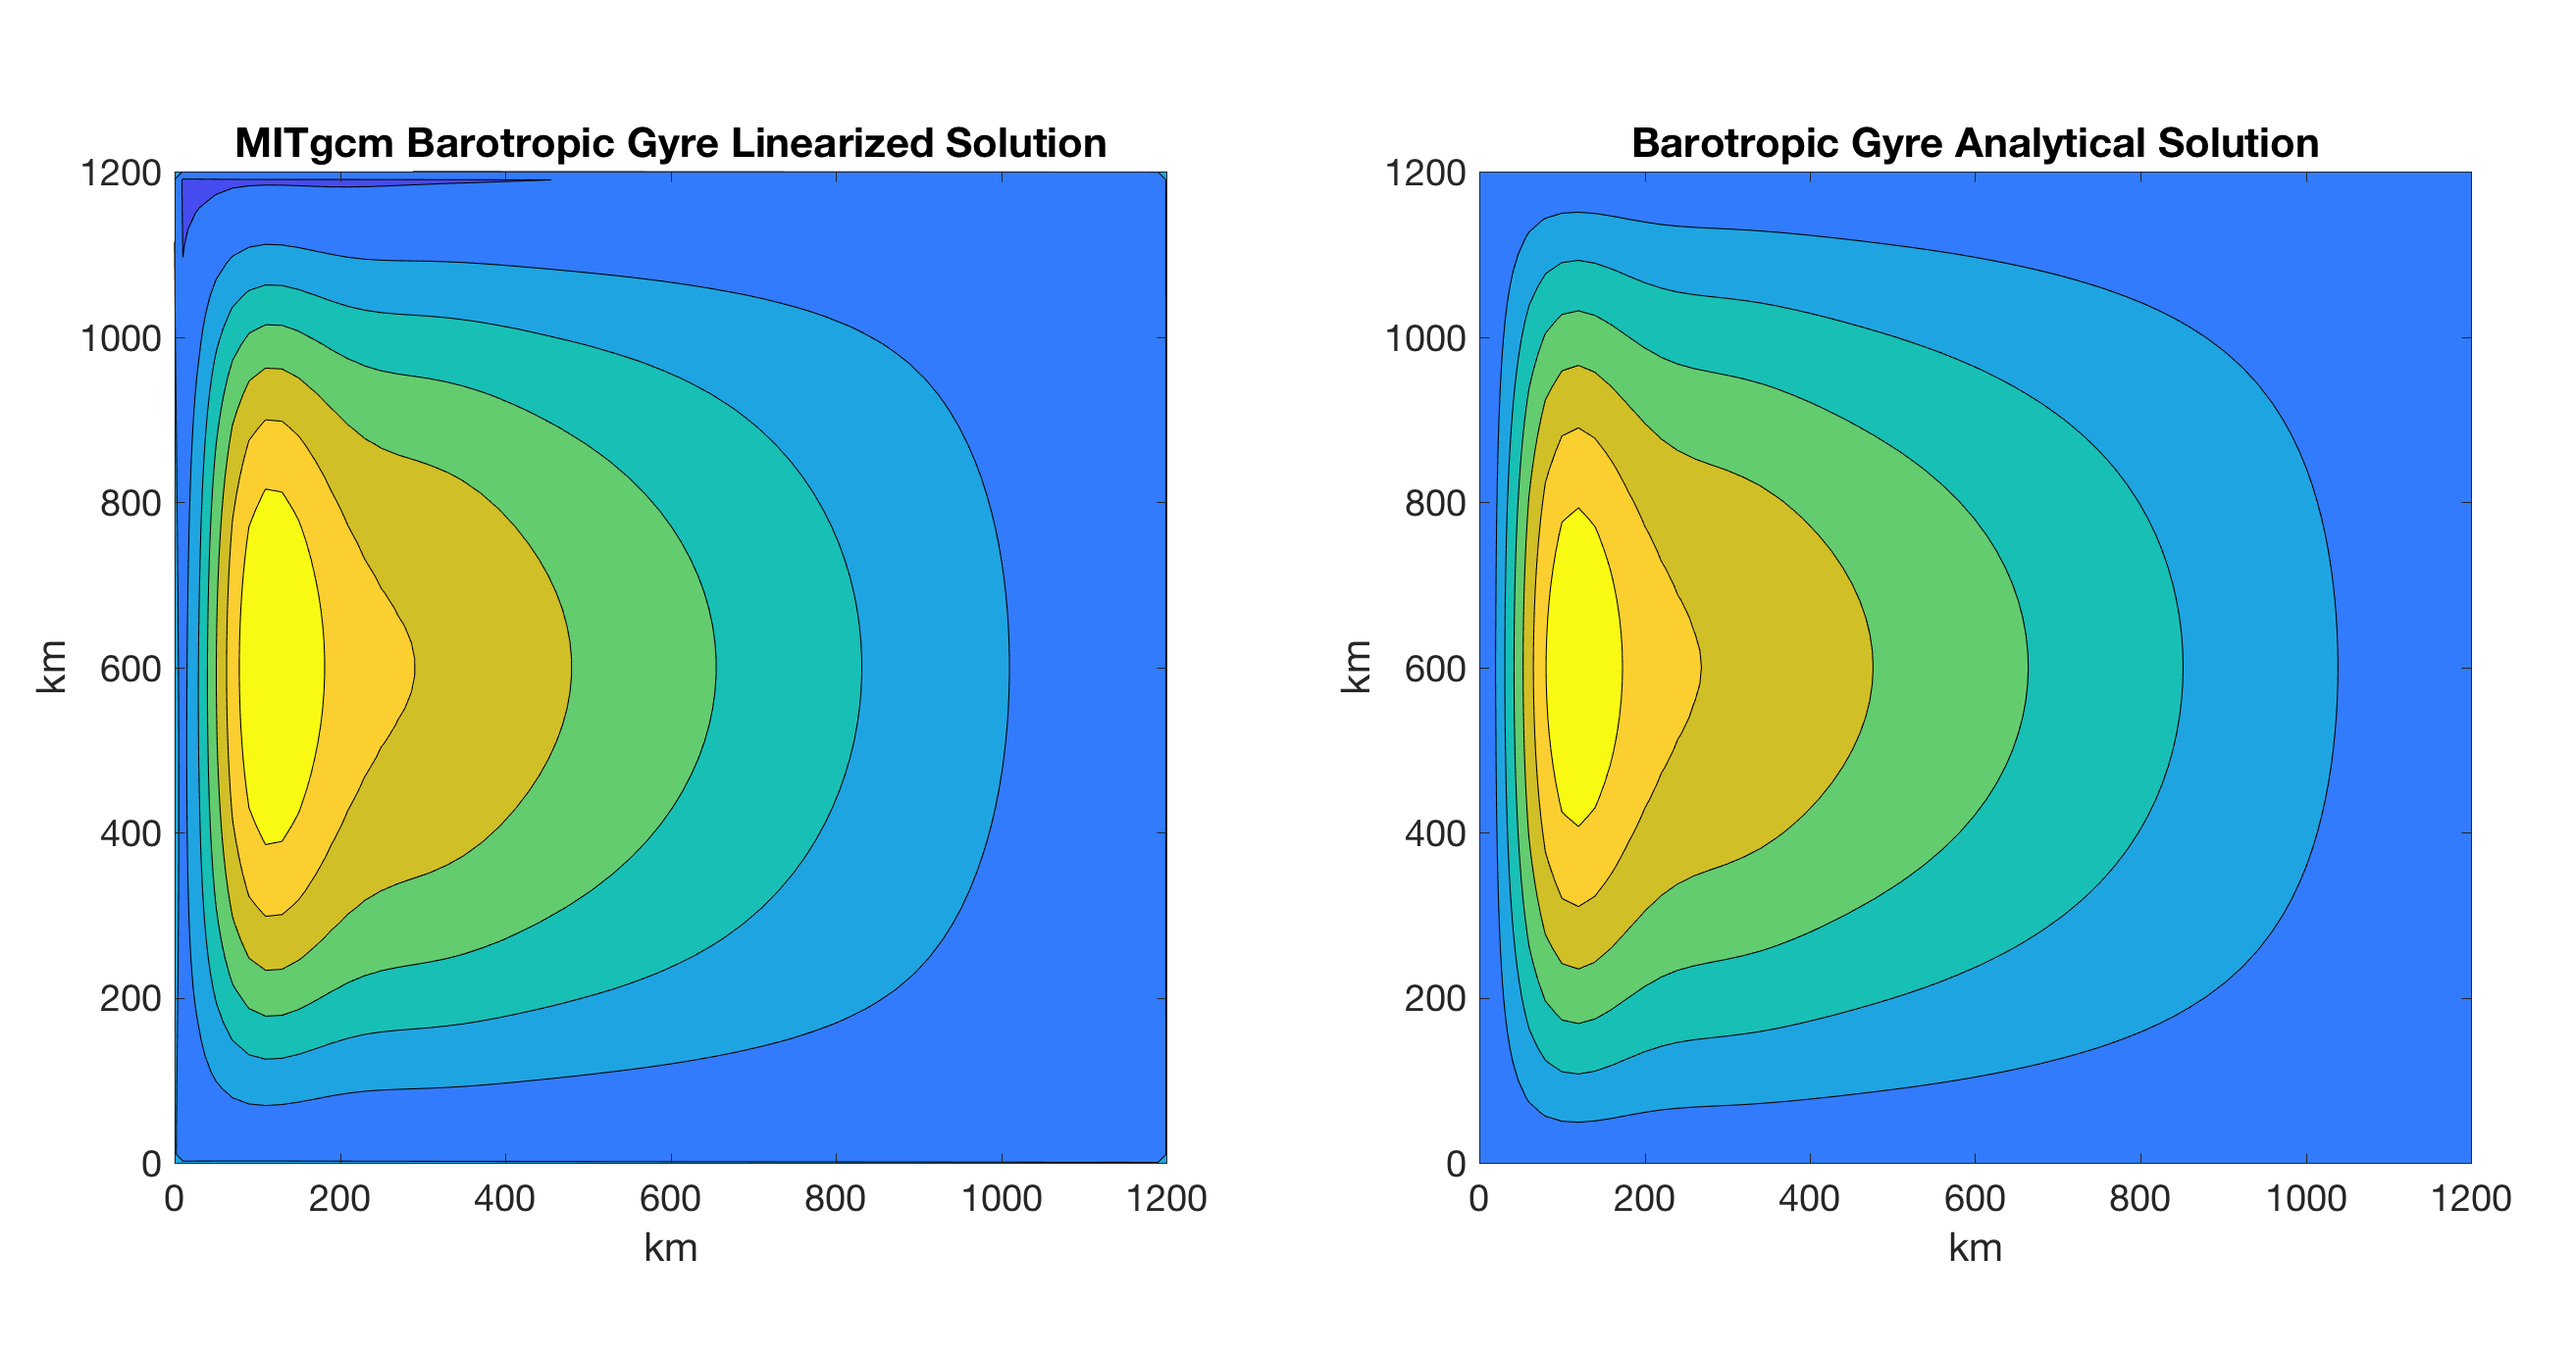
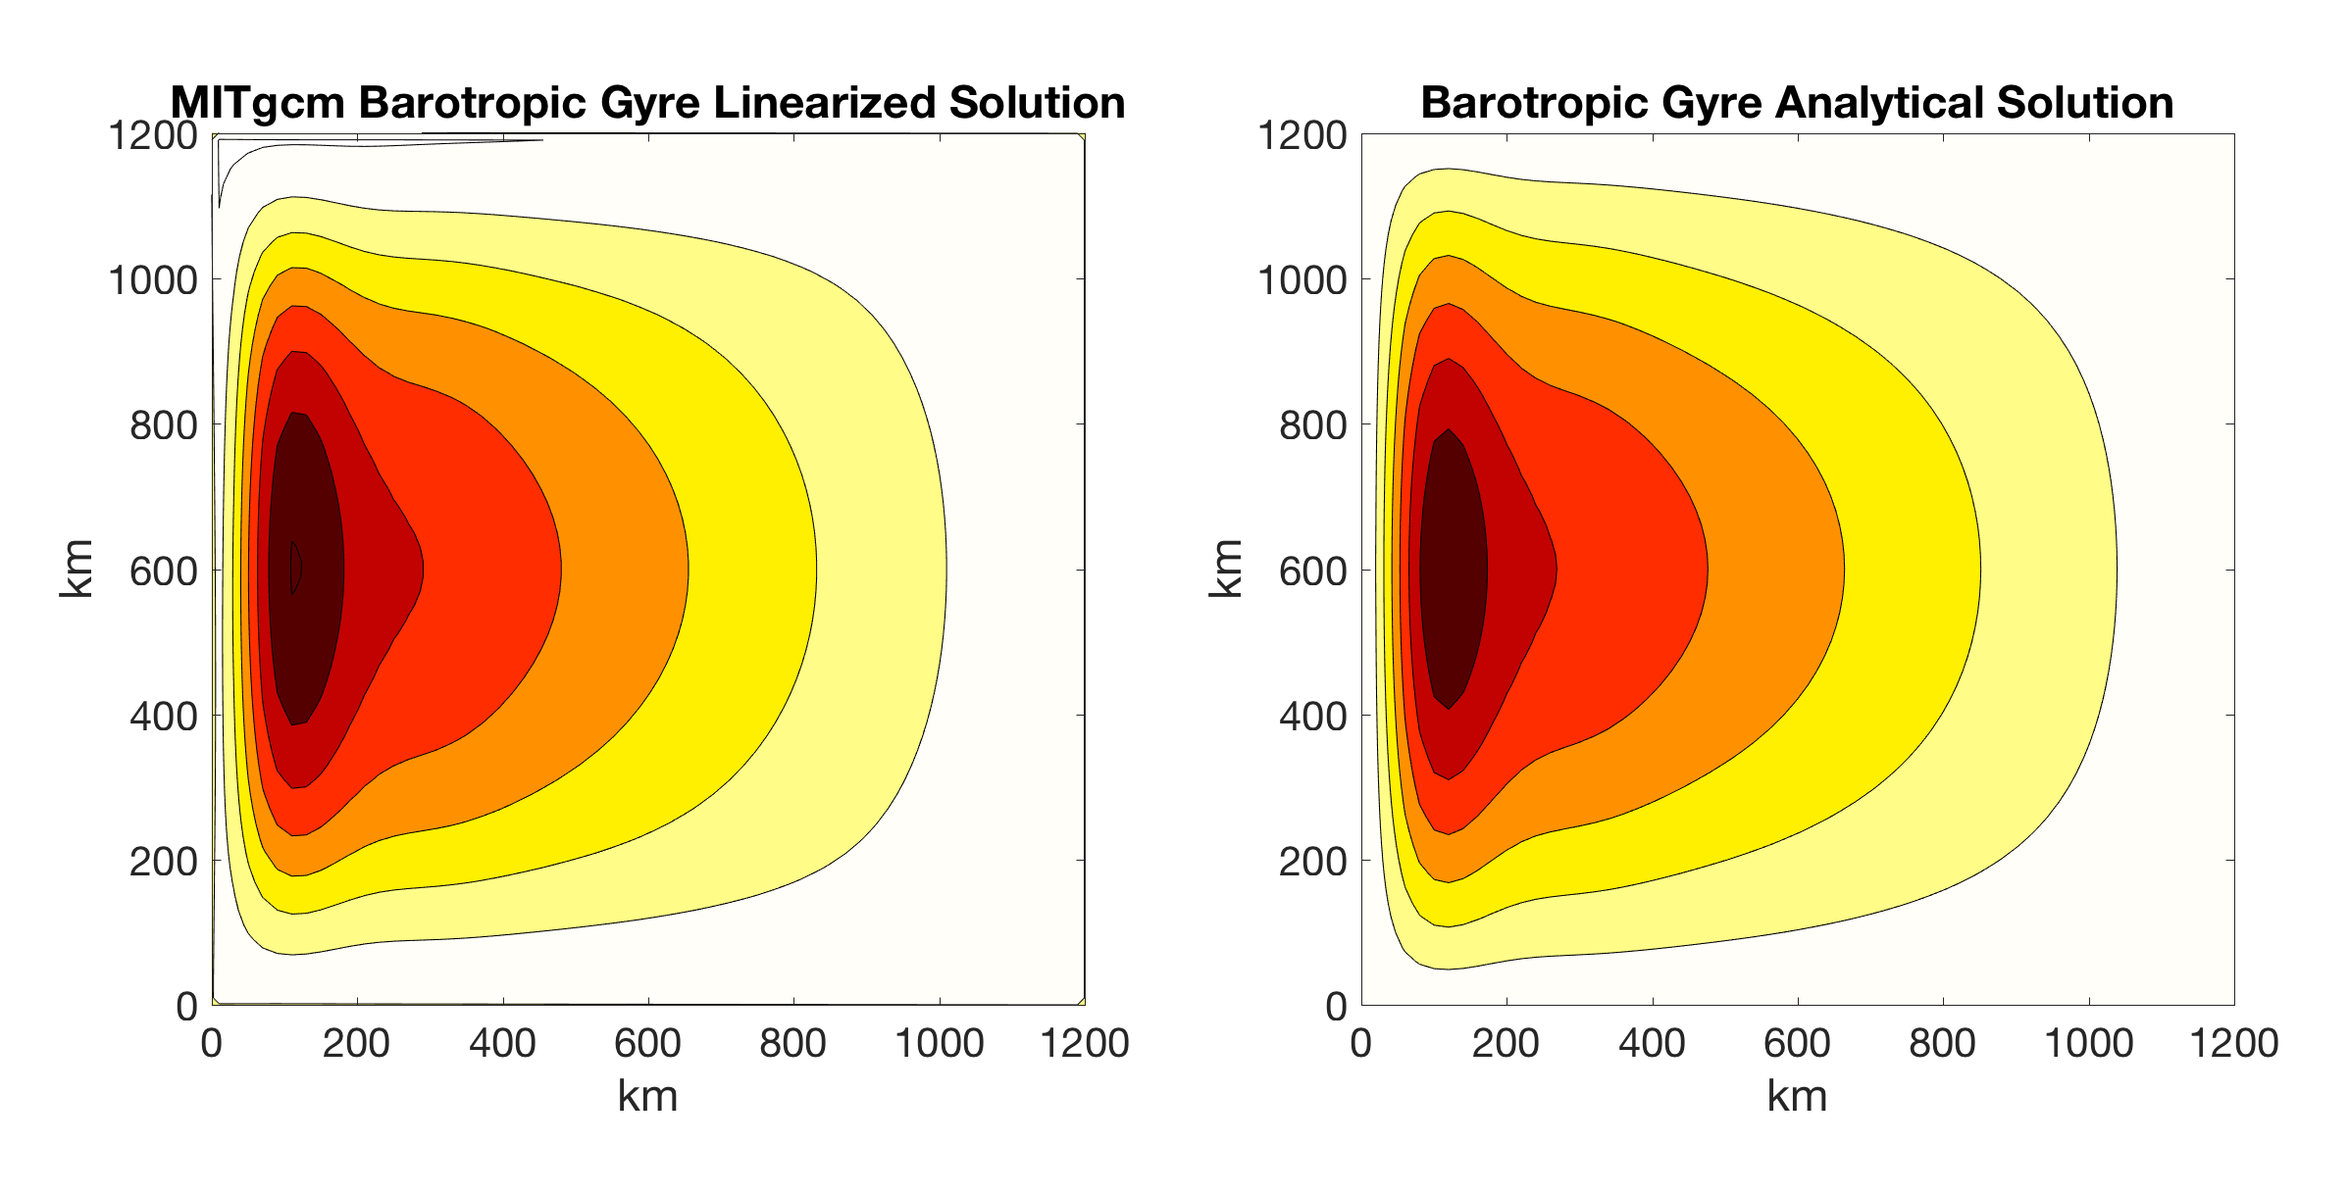
changes from @edoddridge and Maxime
- change colormap/CLim in plots
- change pickup frequency to be consistent with 360-day yrs
- other minor text edits and enhancements

diff --git a/doc/examples/examples.rst b/doc/examples/examples.rst
@@ -25,6 +25,9 @@ Barotropic Gyre MITgcm Example
 This example experiment demonstrates using the MITgcm to simulate a barotropic, wind-forced, ocean gyre circulation.
 The experiment is a numerical rendition of the gyre circulation problem described analytically
 by Stommel in 1948  :cite:`stommel:48` and Munk in 1950 :cite:`munk:50`, and numerically in Bryan (1963) :cite:`bryan:63`.
+Note this tutorial assumes a basic familiarity with ocean dynamics and geophysical fluid dynamics; readers new to the field
+may which to consult one of the standard texts on these subjects,
+such as Vallis (2017) :cite:`vallis:17` or Cushman-Roisin and Beckers (2011) :cite:`cushmanroisin:11`.
 
 In this experiment the model is configured to represent a rectangular enclosed box of fluid, :math:`1200 \times 1200` km
 in lateral extent. The fluid depth :math:`D =`  5 km. The fluid is forced by a zonal wind stress, :math:`\tau_x`, that varies
@@ -89,7 +92,8 @@ equations for this configuration as follows:
 
 where :math:`u` and :math:`v` are the :math:`x` and :math:`y` components of the
 flow vector :math:`\vec{u}`, :math:`\eta` is the free surface height,
-and :math:`A_{h}` the horizontal Laplacian viscosity. 
+:math:`A_{h}` the horizontal Laplacian viscosity, :math:`\rho_{c}` is the fluid density,
+and :math:`g` the acceleration due to gravity.
 
 
 Discrete Numerical Configuration
@@ -111,12 +115,13 @@ maximum horizontal flow speed is:
 
     S_{a} = 2 \left( \frac{ |u| \Delta t}{ \Delta x} \right) < 0.5 \text{ for stability}
 
-The 2 factor on the left is because we have a 2D problem (in contrast with the more familiar 1D canonical stability analysis); the right hand side is 0.5 
+The 2 factor on the left is because we have a 2D problem
+(in contrast with the more familiar 1D canonical stability analysis); the right hand side is 0.5 
 due to our default use of Adams-Bashforth2 (see :numref:`adams-bashforth`) rather than the more familiar
 value of 1 that one would obtain using a forward Euler scheme.
 In our configuration, let’s assume our solution will achieve a maximum :math:`| u | = 1` ms\ :sup:`--1`
 (in reality, current speeds in our solution will be much smaller). To keep :math:`\Delta t` safely
-below the stability criteria, let’s choose :math:`\Delta t` = 1200 s (= 20 minutes), which 
+below the stability threshold, let’s choose :math:`\Delta t` = 1200 s (= 20 minutes), which 
 results in :math:`S_{a}` = 0.12.
 
 The numerical stability for inertial oscillations using Adams-Bashforth2 (Adcroft 1995 :cite:`adcroft:95`)
@@ -127,9 +132,9 @@ The numerical stability for inertial oscillations using Adams-Bashforth2 (Adcrof
     S_{i} = f {\Delta t} < 0.5 \text{ for stability}
 
 
-evaluates to 0.12 for our choice of :math:`\delta t`, which is below the stability criteria.
+evaluates to 0.12 for our choice of :math:`\delta t`, which is below the stability threshold.
 
-There are two general rules in choosing a lateral Laplacian eddy viscosity :math:`A_{h}`:
+There are two general rules in choosing a horizontal Laplacian eddy viscosity :math:`A_{h}`:
 
   - the resulting Munk layer width should be at least as large (preferably, larger) than the lateral grid spacing;
   - the viscosity should be sufficiently small that the model is stable for horizontal friction, given the time step. 
@@ -157,7 +162,7 @@ parameter for the horizontal Laplacian friction (Adcroft 1995 :cite:`adcroft:95`
     S_{l} = 2 \left( 4 \frac{A_{h} \Delta t}{{\Delta x}^2} \right)  < 0.6 \text{ for stability}
 
 
-evaluates to 0.0096, which is well below the stability criteria. As in :eq:`eq_baro_cfl_stability` the above criteria
+evaluates to 0.0096, which is well below the stability threshold. As in :eq:`eq_baro_cfl_stability` the above criteria
 is for a 2D problem using Adams-Bashforth2 time stepping, with the 0.6 value on the right replacing the more familiar 1
 that is obtained using a forward Euler scheme.
 
@@ -243,8 +248,10 @@ See other tutorials for more  complex model domain decomposition.
        :end-at: nSy =
        :lineno-match:
 
-- These lines set parameters :varlink:`nPx` and :varlink:`nPy`, the number of processes to use in the :math:`x` and :math:`y` directions, respectively.
-  Each process would solve the model equations for a separate MITgcm tile (or several, depending on your :varlink:`nSx` and :varlink:`nSy` setting).
+- These lines set parameters :varlink:`nPx` and :varlink:`nPy`, the number of processes
+  to use in the :math:`x` and :math:`y` directions, respectively.
+  Each process would solve the model equations for a separate MITgcm tile (or several,
+  depending on your :varlink:`nSx` and :varlink:`nSy` setting).
   Given the relatively small domain size and minimal computational resources
   required to run this example, we have configured the model to run on a 
   single processor, thus both parameters are set to one. 
@@ -331,10 +338,10 @@ PARM01 - Continuous equation parameters
        :end-at: implicitFreeSurface
        :lineno-match:
 
-- This line sets parameter :varlink:`momAdvection` to suppress the momentum of advection
+- This line sets parameter :varlink:`momAdvection` to suppress the (non-linear) momentum of advection
   terms in the momentum equations. However, note the ``#`` in column 1: this
   “comments out” the line, so using the above :filelink:`data <verification/tutorial_barotropic_gyre/input/data>`
-  file verbatum will in fact include the momentum advection terms (i.e., MITgcm default for this parameter is TRUE).
+  file verbatim will in fact include the momentum advection terms (i.e., MITgcm default for this parameter is TRUE).
   We’ll explore the linearized solution (i.e., by removing the leading ``#``) in :numref:`barotropic_gyre_solution`.
   Note the ability to comment out a line in a namelist file is not part of standard Fortran,
   but this feature is implemented for all MITgcm namelist files.
@@ -347,9 +354,11 @@ PARM01 - Continuous equation parameters
 - These lines set parameters :varlink:`tempStepping` and :varlink:`saltStepping` to
   suppress MITgcm’s forward time integration of temperature and salt in the tracer equations,
   as these prognostic variables are not relevant for the model solution in this configuration.
-  The advantage of doing so is to
+  By default, MITgcm solves equations governing these two (active) tracers; later tutorials will
+  demonstrate how additional passive tracers can be included in the solution.
+  The advantage of NOT solving the temperature and salinity equations is to
   eliminate many unnecessary computations. In most typical configurations however, one will want the model to
-  compute a solution for :math:`T` and :math:`S` (the MITgcm default), which
+  compute a solution for :math:`T` and :math:`S`, which
   typically comprises the majority of MITgcm’s processing time. 
 
   .. literalinclude:: ../../verification/tutorial_barotropic_gyre/input/data
@@ -408,7 +417,7 @@ PARM03 - Time stepping parameters
        :lineno-match:
 
 - These lines control the frequency at which restart (a.k.a. pickup) files are dumped by MITgcm.
-  Here the value of :varlink:`pChkptFreq` is set to 31,536,000 seconds (=1.0 years) of model time;
+  Here the value of :varlink:`pChkptFreq` is set to 31,104,000 seconds (=1.0 years) of model time;
   this controls the frequency of “permanent” checkpoint pickup files. With permanent files,
   the model’s iteration number is part of the file name (as the filename “suffix”; see :numref:`other_output`)
   in order to save it as a labelled, permanent, pickup state.
@@ -436,7 +445,7 @@ PARM03 - Time stepping parameters
        :lineno-match:
 
 - These lines are set to dump monitor output (see :numref:`pkg_monitor`) every 1200 seconds (i.e., every time step) to standard output. 
-  While this is monitor frequency is needed for MITgcm automated testing, this is much too much output for our tutorial run. Comment out this line
+  While this monitor frequency is needed for MITgcm automated testing, this is too much output for our tutorial run. Comment out this line
   and uncomment the line where :varlink:`monitorFreq` is set to 864,000 seconds, i.e., output every 10 days.
   Parameter :varlink:`monitorSelect` is set to 2 here to reduce output of non-applicable quantities for this simple example. 
 
@@ -456,7 +465,8 @@ PARM04 - Gridding parameters
        :end-at: usingCartesianGrid
        :lineno-match:
 
-- These lines set the horizontal grid spacing in the discrete grid, parameters :varlink:`delX` and :varlink:`delY`.
+- These lines set the horizontal grid spacing in the discrete grid, parameters :varlink:`delX` and :varlink:`delY`
+  (i.e., :math:`\Delta x` and :math:`\Delta y` respectively).
   The syntax indicates that the discrete grid is comprised of 62 grid boxes,
   with grid lines separated by :math:`20 \times 10^{3}` m (=20 km), in both the :math:`x`- and :math:`y`-coordinate.
 
@@ -476,7 +486,7 @@ PARM04 - Gridding parameters
        :lineno-match:
 
 
-- This line sets parameter :varlink:`delR`, the vertical grid spacing in the :math:`z`-coordinate, to 5000m.
+- This line sets parameter :varlink:`delR`, the vertical grid spacing in the :math:`z`-coordinate (i.e., :math:`\Delta z`), to 5000m.
 
   .. literalinclude:: ../../verification/tutorial_barotropic_gyre/input/data
        :start-at: delR
@@ -691,7 +701,7 @@ simulations, ``W`` is a fully prognostic model variable).
 
 The following pickup files are generated:
 
-- ``pickup.0000026280.001.001.data``, ``pickup.0000026280.001.001.meta``, etc. - written at frequency set by :varlink:`pChkptFreq`
+- ``pickup.0000025920.001.001.data``, ``pickup.0000025920.001.001.meta``, etc. - written at frequency set by :varlink:`pChkptFreq`
 - ``pickup.ckptA.001.001.data``, ``pickup.ckptA.001.001.meta``, ``pickup.ckptB.001.001.data``,
   ``pickup.ckptB.001.001.meta`` - written at frequency set by :varlink:`ChkptFreq`
 
@@ -722,9 +732,12 @@ Model Solution
 
 
 After running the model for 77,760 time steps (3.0 years), the solution is near equilibrium.
-This equilibrium timescale is consistent with barotropic Rossby waves
-requiring order one month to cross our model domain. The model solution of free-surface
+Given an approximate timescale of one month for barotropic Rossby waves
+to cross our model domain, one might expect the solution to require several years to achieve an equilibrium state.
+The model solution of free-surface
 height :math:`\eta` (proportional to streamfunction) at :math:`t=` 3.0 years is shown in :numref:`barotropic_nl_soln`.
+For further details on this solution, particularly examining the effect of the non-linear terms with increasing Reynolds number,
+the reader is referred to Pedlosky (1987) :cite:`pedlosky:87` section 5.11.
 
   .. figure:: barotropic_gyre/figs/full_solution.*
       :width: 80%
@@ -743,7 +756,7 @@ binary data in ``Eta.0000077760.001.001.data`` is as simple as:
    XC=rdmds('XC'); YC=rdmds('YC');
    Eta=rdmds('Eta',77760); 
    contourf(XC/1000,YC/1000,Eta,[-.04:.01:.04]); colorbar; 
-   set(gca,'Clim',[-.04 .04]); set(gca,'XLim',[0 1200]); set(gca,'YLim',[0 1200])
+   colormap((flipud(hot))); set(gca,'XLim',[0 1200]); set(gca,'YLim',[0 1200])
 
 or using python (you will need to copy :filelink:`utils/python/MITgcmutils/MITgcmutils/mds.py` to your run directory before proceeding):
 
